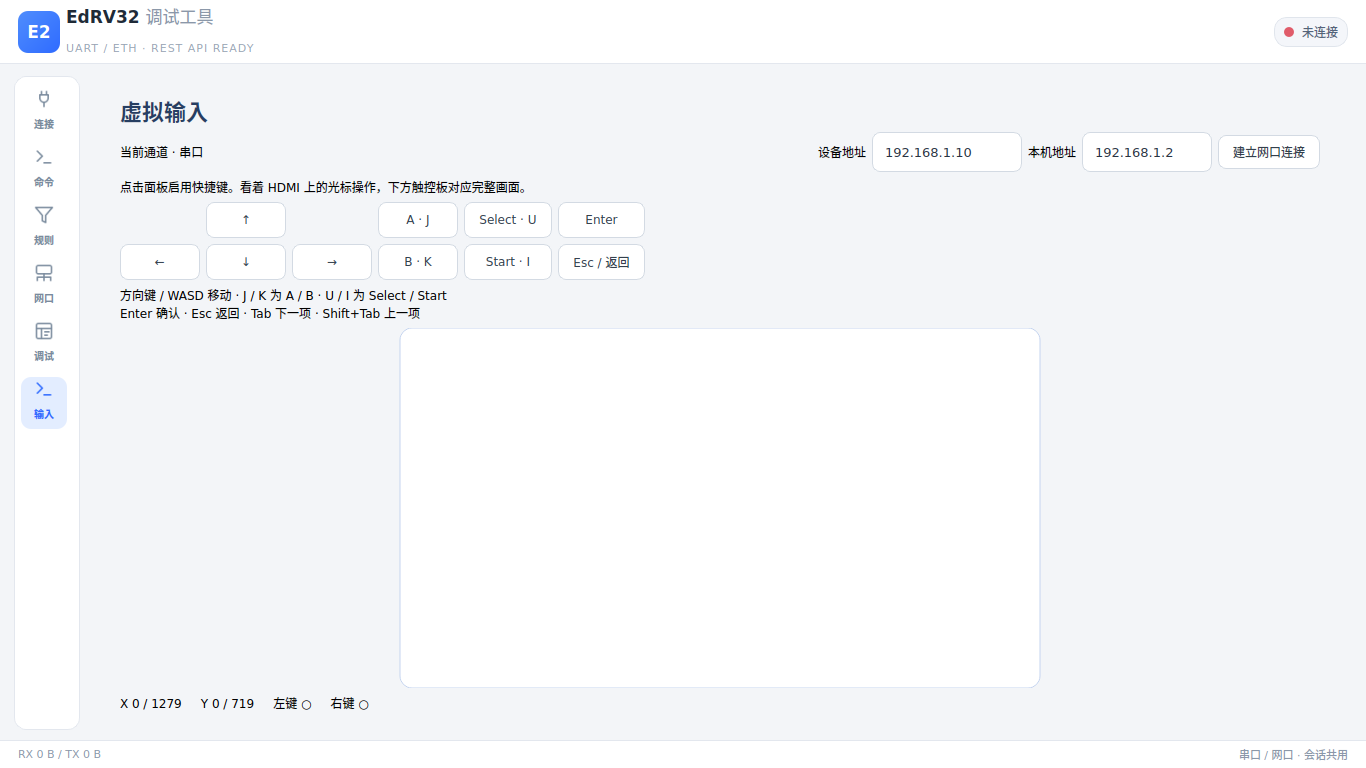
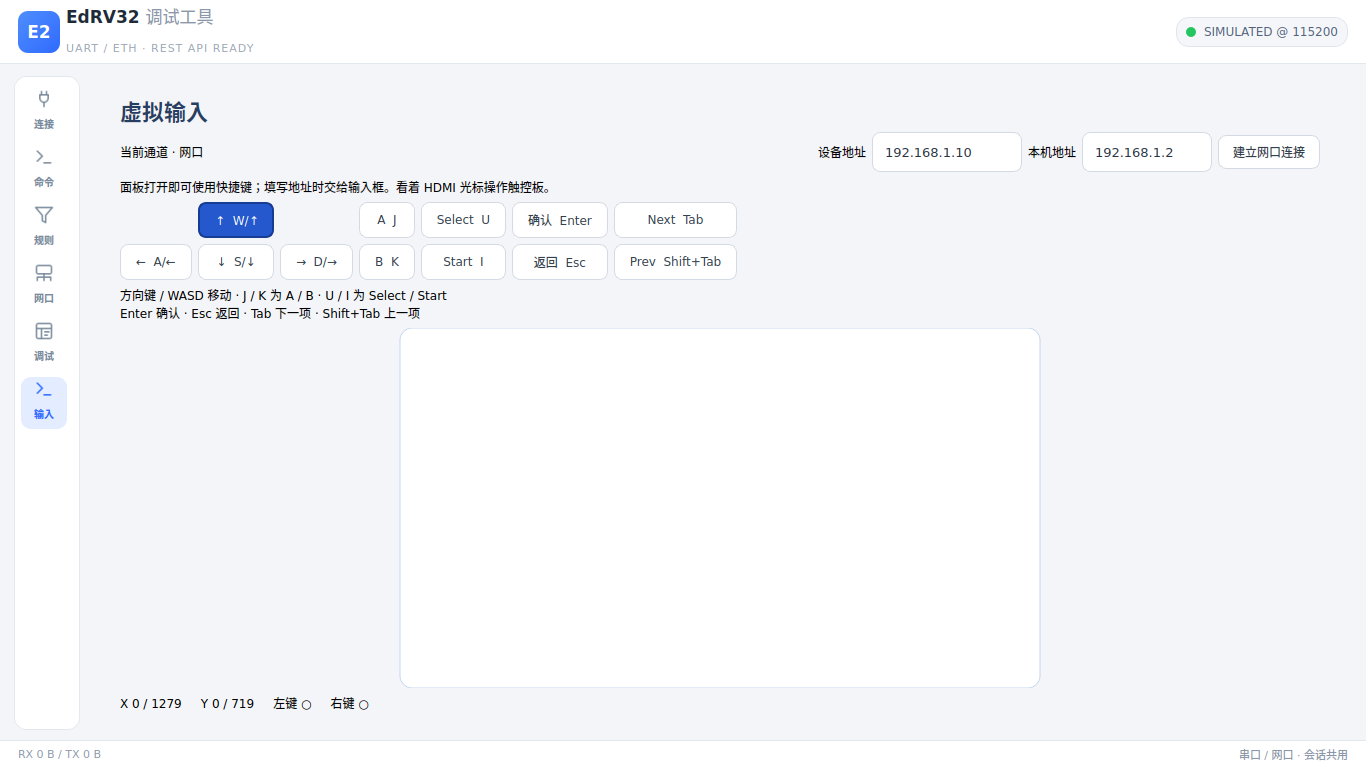
debug_tool: enable visible-panel keys and pressed feedback

Changed region(s): [[0.246, 0.2812, 0.5227, 0.375], [0.0922, 0.1875, 0.3997, 0.3438], [0.8609, 0.0312, 0.9839, 0.0625]]

diff --git a/tools/debug_tool/gui/virtual_input.py b/tools/debug_tool/gui/virtual_input.py
@@ -2,7 +2,8 @@
 from PySide6.QtCore import QEvent, QRectF, Qt, QTimer
 from PySide6.QtGui import QColor, QPainter
 from PySide6.QtWidgets import (
-    QApplication, QGridLayout, QHBoxLayout, QLabel, QLineEdit, QPushButton, QVBoxLayout, QWidget,
+    QApplication, QGridLayout, QHBoxLayout, QLabel, QLineEdit, QPlainTextEdit,
+    QPushButton, QTextEdit, QVBoxLayout, QWidget,
 )
 from core.virtual_input import KEYS, channel
 
@@ -82,18 +83,25 @@ class VirtualInputPanel(QWidget):
         self.connect_button.clicked.connect(self.connect_network)
         connection.addWidget(self.connect_button)
         layout.addLayout(connection)
-        note = QLabel('点击面板启用快捷键。看着 HDMI 上的光标操作，下方触控板对应完整画面。')
+        note = QLabel('面板打开即可使用快捷键；填写地址时交给输入框。看着 HDMI 光标操作触控板。')
         note.setWordWrap(True)
         layout.addWidget(note)
         controls = QHBoxLayout()
         grid = QGridLayout()
-        positions = [('up', '↑', 0, 1), ('left', '←', 1, 0), ('down', '↓', 1, 1),
-                     ('right', '→', 1, 2), ('a', 'A · J', 0, 4), ('b', 'B · K', 1, 4),
-                     ('select', 'Select · U', 0, 5), ('start', 'Start · I', 1, 5),
-                     ('enter', 'Enter', 0, 6), ('esc', 'Esc / 返回', 1, 6)]
+        self.buttons = {}
+        positions = [('up', '↑  W/↑', 0, 1), ('left', '←  A/←', 1, 0),
+                     ('down', '↓  S/↓', 1, 1), ('right', '→  D/→', 1, 2),
+                     ('a', 'A  J', 0, 3), ('b', 'B  K', 1, 3),
+                     ('select', 'Select  U', 0, 4), ('start', 'Start  I', 1, 4),
+                     ('enter', '确认  Enter', 0, 5), ('esc', '返回  Esc', 1, 5),
+                     ('next', 'Next  Tab', 0, 6), ('prev', 'Prev  Shift+Tab', 1, 6)]
         for key, text, row, column in positions:
             button = QPushButton(text)
-            button.setMinimumWidth(80)
+            self.buttons[key] = button
+            button.setMinimumWidth(button.fontMetrics().horizontalAdvance(text) + 32)
+            button.setStyleSheet(
+                'QPushButton:pressed { background: #2458cc; color: #ffffff; '
+                'border: 2px solid #173c94; }')
             button.setMinimumHeight(36)
             button.setFocusPolicy(Qt.NoFocus)
             button.pressed.connect(lambda key=key: self.button(key, True))
@@ -137,7 +145,10 @@ class VirtualInputPanel(QWidget):
         self.send()
 
     def send(self):
-        keys = sum(1 << KEYS.index(key) for key in {item[1] for item in self.pressed})
+        names = {item[1] for item in self.pressed}
+        for name, button in self.buttons.items():
+            button.setDown(name in names)
+        keys = sum(1 << KEYS.index(key) for key in names)
         self.coordinates.setText(f'X {self.x} / 1279     Y {self.y} / 719     '
                                  f'左键 {"●" if self.mouse & 1 else "○"}     '
                                  f'右键 {"●" if self.mouse & 2 else "○"}')
@@ -156,19 +167,27 @@ class VirtualInputPanel(QWidget):
 
     def eventFilter(self, obj, event):
         focus = QApplication.focusWidget()
-        inside = focus is self or (focus is not None and self.isAncestorOf(focus))
+        in_window = focus is not None and focus.window() is self.window()
+        editing = isinstance(focus, (QLineEdit, QPlainTextEdit, QTextEdit))
         if event.type() == QEvent.WindowDeactivate and obj is self.window():
             if self.pressed or self.mouse:
                 self.pressed.clear()
                 self.mouse = 0
                 self.send()
-        if (self.isVisible() and inside and focus is not self.ip and
+        if (self.isVisible() and in_window and
                 event.type() in (QEvent.KeyPress, QEvent.KeyRelease)):
             key = event.key()
             if key in KEY_MAP or key == Qt.Key_Backtab:
+                code = Qt.Key_Tab if key == Qt.Key_Backtab else key
+                releasing = event.type() == QEvent.KeyRelease
+                held = any(item[0] == code for item in self.pressed)
+                if editing and not (releasing and held):
+                    return super().eventFilter(obj, event)
                 if not event.isAutoRepeat():
-                    name = ('prev' if key == Qt.Key_Backtab else KEY_MAP[key])
-                    token = (Qt.Key_Tab if key == Qt.Key_Backtab else key, name)
+                    previous = (key == Qt.Key_Backtab or
+                                (key == Qt.Key_Tab and event.modifiers() & Qt.ShiftModifier))
+                    name = 'prev' if previous else KEY_MAP[key]
+                    token = (code, name)
                     if event.type() == QEvent.KeyPress:
                         self.pressed.add(token)
                     else:

diff --git a/tools/debug_tool/tests/test_virtual_input.py b/tools/debug_tool/tests/test_virtual_input.py
@@ -112,6 +112,38 @@ class VirtualInputTest(unittest.TestCase):
             window.show()
             window._select_page(5)
             panel = window.virtual_input
+            # A focus elsewhere in the window must not require a panel click.
+            window.rail_group.button(5).setFocus()
+            app.processEvents()
+            QTest.keyPress(window, Qt.Key_W)
+            self.assertEqual(FRAME.unpack(frames[-1])[0], 1)
+            self.assertTrue(panel.buttons['up'].isDown())
+            QTest.keyPress(window, Qt.Key_Up)
+            QTest.keyRelease(window, Qt.Key_W)
+            self.assertEqual(FRAME.unpack(frames[-1])[0], 1)
+            self.assertTrue(panel.buttons['up'].isDown())
+            QTest.keyRelease(window, Qt.Key_Up)
+            self.assertEqual(FRAME.unpack(frames[-1])[0], 0)
+            self.assertFalse(panel.buttons['up'].isDown())
+            for field in (panel.ip, panel.local_ip):
+                field.setFocus()
+                with patch.object(engine.virtual_input, 'update') as update:
+                    QTest.keyClick(field, Qt.Key_W)
+                    update.assert_not_called()
+                self.assertIn('w', field.text().lower())
+            panel.ip.setText('192.168.1.10')
+            panel.local_ip.setText('127.0.0.1')
+            QTest.mousePress(panel.buttons['a'], Qt.LeftButton)
+            self.assertTrue(panel.buttons['a'].isDown())
+            self.assertEqual(FRAME.unpack(frames[-1])[0], 16)
+            QTest.mouseRelease(panel.buttons['a'], Qt.LeftButton)
+            self.assertFalse(panel.buttons['a'].isDown())
+            self.assertEqual(FRAME.unpack(frames[-1])[0], 0)
+            QTest.keyPress(panel, Qt.Key_Tab, Qt.ShiftModifier)
+            self.assertTrue(panel.buttons['prev'].isDown())
+            self.assertEqual(FRAME.unpack(frames[-1])[0], 1 << 11)
+            QTest.keyRelease(panel, Qt.Key_Tab, Qt.ShiftModifier)
+            self.assertFalse(panel.buttons['prev'].isDown())
             for width, height in ((1366, 768), (1920, 1080)):
                 window.resize(width, height)
                 app.processEvents()
@@ -120,6 +152,10 @@ class VirtualInputTest(unittest.TestCase):
                     if not label.wordWrap():
                         self.assertGreaterEqual(label.width(),
                                                 label.fontMetrics().horizontalAdvance(label.text()))
+                for button in panel.buttons.values():
+                    self.assertGreaterEqual(button.width(),
+                                            button.fontMetrics().horizontalAdvance(button.text())
+                                            + 24)
                 area = panel.pad.area()
                 self.assertAlmostEqual(area.width() / area.height(), 16 / 9)
             with patch.object(engine.board, 'establish_network') as establish:
@@ -143,6 +179,18 @@ class VirtualInputTest(unittest.TestCase):
             self.assertEqual((x, y, mouse), (1279, 719, 1))
             QTest.mouseRelease(panel.pad, Qt.LeftButton)
             self.assertEqual(FRAME.unpack(frames[-1])[3], 0)
+            QTest.keyPress(panel, Qt.Key_W)
+            from PySide6.QtCore import QEvent
+            app.sendEvent(window, QEvent(QEvent.WindowDeactivate))
+            self.assertEqual(FRAME.unpack(frames[-1])[0], 0)
+            self.assertFalse(panel.buttons['up'].isDown())
+            QTest.keyPress(panel, Qt.Key_W)
+            window._select_page(4)
+            self.assertEqual(FRAME.unpack(frames[-1])[0], 0)
+            self.assertFalse(panel.buttons['up'].isDown())
+            with patch.object(engine.virtual_input, 'update') as update:
+                QTest.keyClick(window, Qt.Key_W)
+                update.assert_not_called()
         finally:
             from PySide6.QtCore import QCoreApplication, QEvent
             window.close()

diff --git a/tools/debug_tool/render_shot.py b/tools/debug_tool/render_shot.py
@@ -16,6 +16,7 @@ sys.path.insert(0, os.path.dirname(os.path.abspath(__file__)))
 
 from PySide6.QtCore import Qt
 from PySide6.QtGui import QImage
+from PySide6.QtTest import QTest
 from PySide6.QtWidgets import QApplication
 
 from core.engine import SerialEngine
@@ -141,6 +142,9 @@ def main():
             raise RuntimeError('Simulator produced no EDTM data')
         if (window.width(), window.height()) != (args.width, args.height):
             raise RuntimeError(f'Layout expanded window to {window.size()}')
+        if args.main_page == 5:
+            QTest.keyPress(window, Qt.Key_W)
+            app.processEvents()
         if not window.grab().save(args.out):
             raise RuntimeError(f'Cannot save screenshot: {args.out}')
         print(f'Saved {args.out} ({args.width} × {args.height}, {args.state})')
